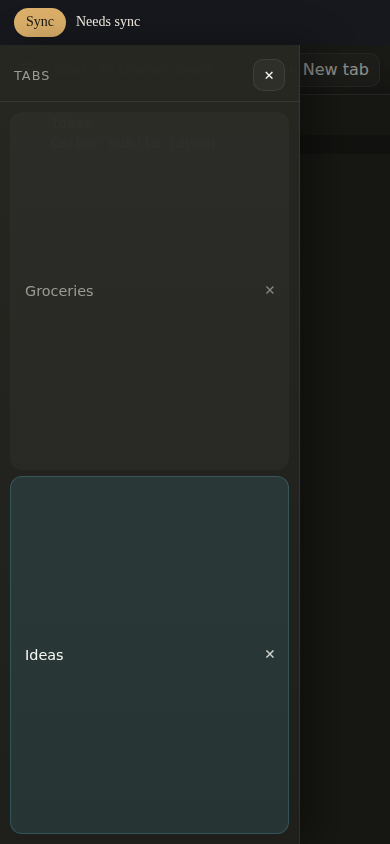
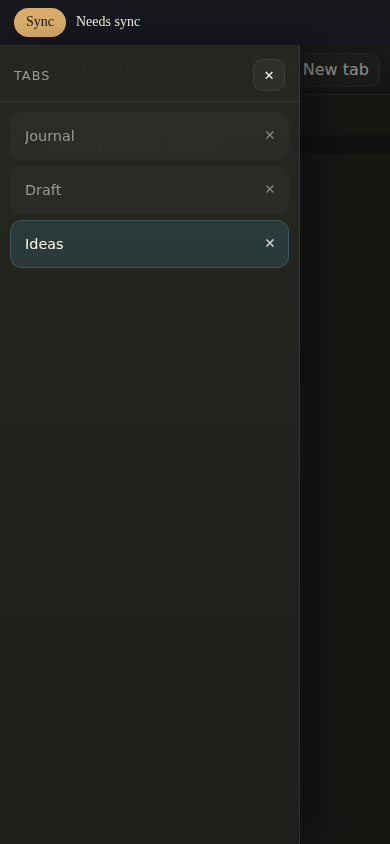
Fix Carbon mobile tab sizing
Agent-Logs-Url: https://github.com/cmdr2/flare/sessions/7834e229-2d84-4cff-bf30-2f33647d9994

diff --git a/public/apps/carbon/index.html b/public/apps/carbon/index.html
@@ -324,11 +324,14 @@
       min-height: 0;
       overflow-y: auto;
       padding: 10px;
-      display: grid;
+      display: flex;
+      flex-direction: column;
+      align-items: stretch;
       gap: 6px;
     }
 
     .tab-list-item {
+      flex: 0 0 auto;
       min-width: 0;
       display: flex;
       align-items: center;
